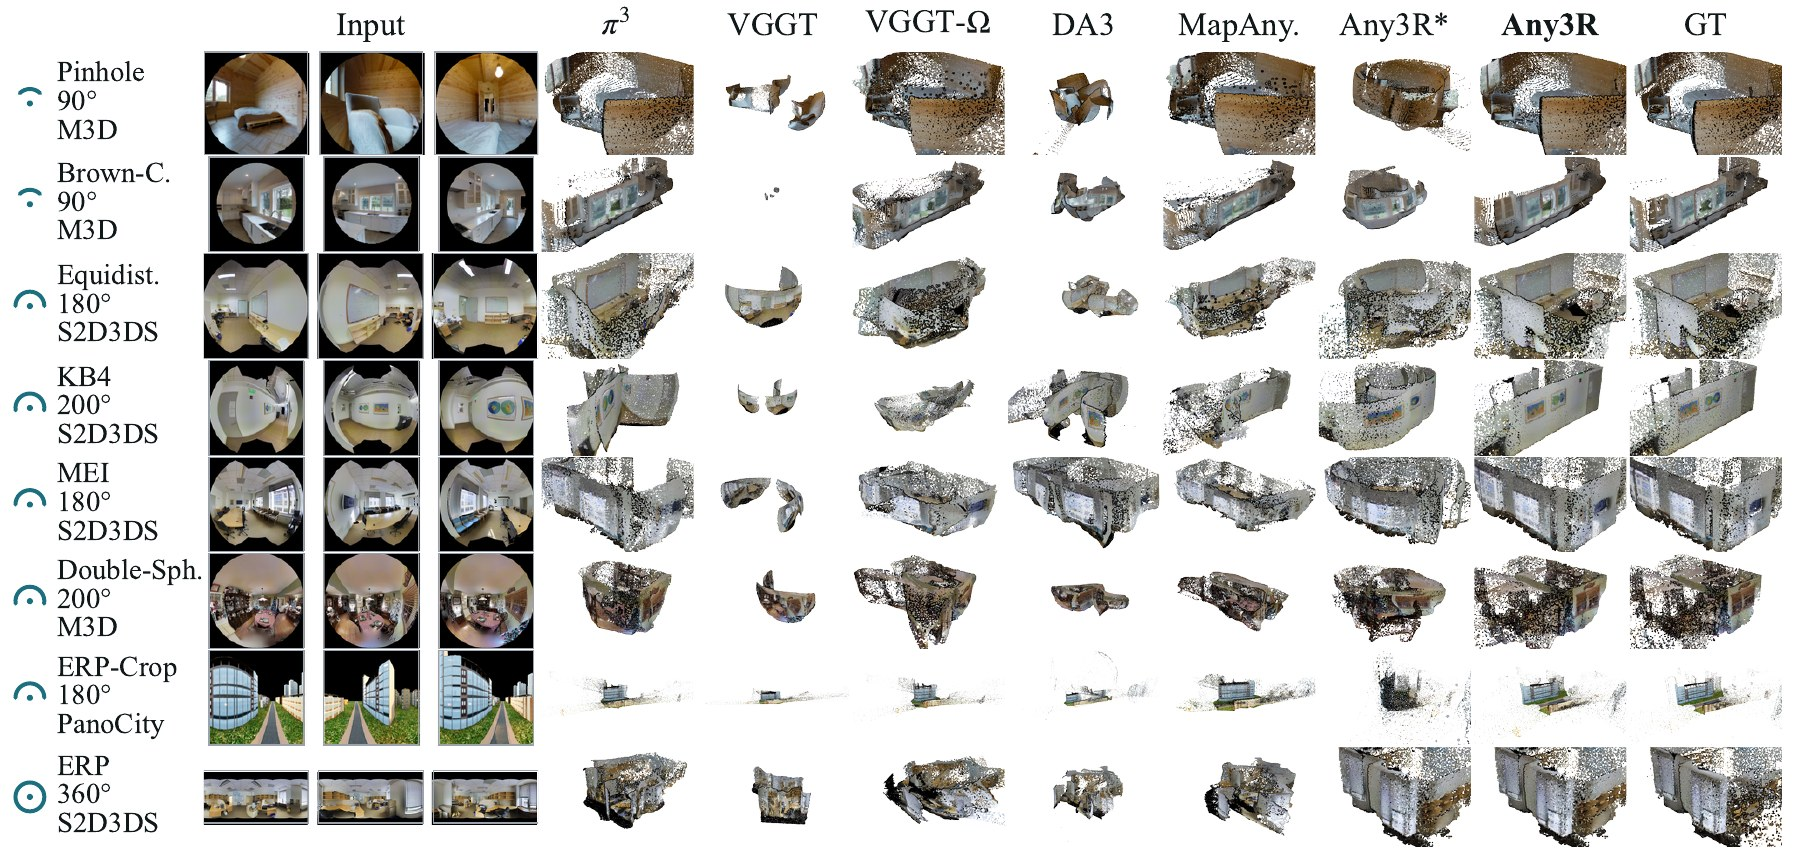
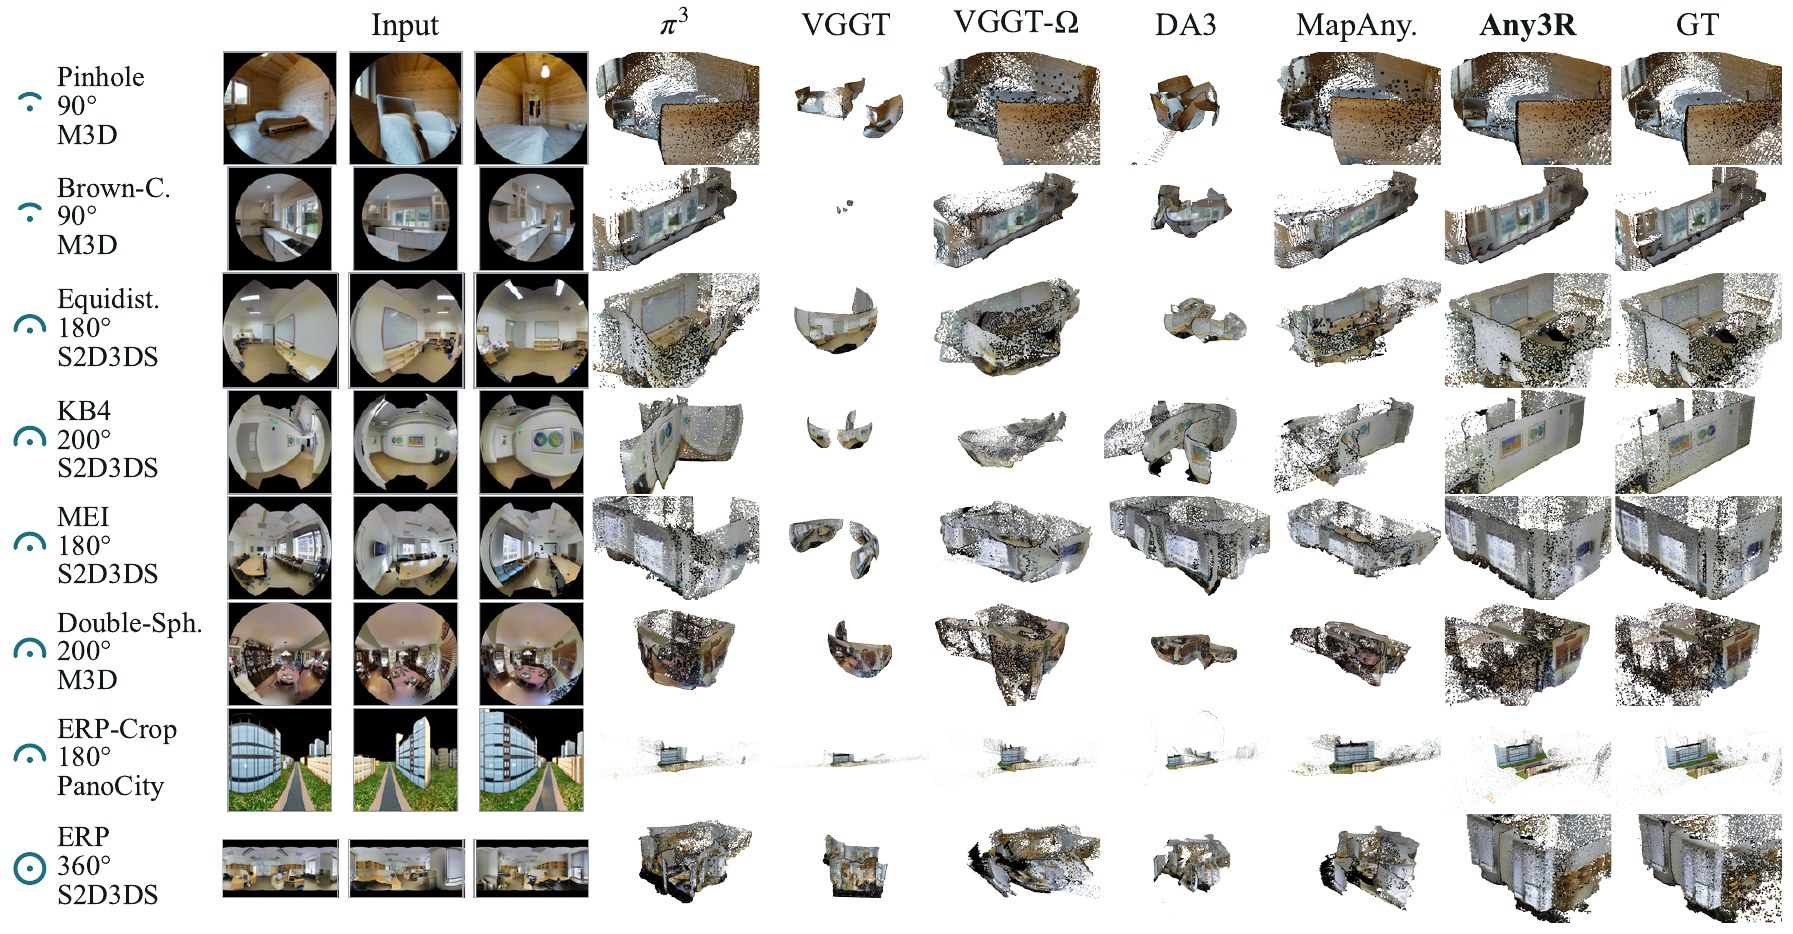
README: follow the arXiv v2 paper; Any3R* (removed from the paper) leaves the tables and the eight-camera figure, and a news entry points to v2

diff --git a/README.md b/README.md
@@ -18,6 +18,7 @@
 
 ## News
 
+- **2026-11-20** · The paper is updated on [arXiv](https://arxiv.org/abs/2610.36150) (v2).
 - **2026-10-31** · Inference code, model weights, interactive demo and evaluation code are released.
 
 ## Contents
@@ -124,11 +125,11 @@ Any3R is fine-tuned from VGGT-Omega for 40 epochs on Matterport3D, Stanford2D3DS
 
 All numbers are from the paper. The benchmark images every scene of three datasets through the same views with each camera model, and every method fuses its points with **its own predicted camera poses**. Acc (m, lower is better) is the mean distance from a reconstructed point to the ground truth; AUC@15° / AUC@30° (%, higher is better) is the area under the pairwise pose-error curve. In each table, the best value of a column is in **bold** and the second best <ins>underlined</ins>. The five held-out camera models are in the paper's appendix and in [eval/README.md](eval/README.md).
 
-### Eight camera models, seven methods
+### Eight camera models, six methods
 
-<p align="center"><img src="assets/compare_cameras.jpg" width="100%" alt="Eight central camera models, seven methods, one scene per row"></p>
+<p align="center"><img src="assets/compare_cameras.jpg" width="100%" alt="Eight central camera models, six methods, one scene per row"></p>
 
-One scene per row, each imaged by three views through one camera model. Every method fuses the same three views with its own predicted poses and is placed in the ground-truth frame by one similarity transform; the highest 30% of each indoor cloud is removed so the room can be seen from above. MapAny. is MapAnything and Any3R\* is Any3R without its ray map. The same data can be explored in 3D on the [project page](https://jingong-chen.github.io/Any3R/#compare).
+One scene per row, each imaged by three views through one camera model. Every method fuses the same three views with its own predicted poses and is placed in the ground-truth frame by one similarity transform; the highest 30% of each indoor cloud is removed so the room can be seen from above. MapAny. is MapAnything. The same data can be explored in 3D on the [project page](https://jingong-chen.github.io/Any3R/#compare).
 
 ### Methods built for other cameras
 
@@ -198,7 +199,7 @@ ScanNet++ (DSLR fisheye) and FIORD (200° lens), neither in Any3R's training dat
 | MapA-ray | <ins>74.7</ins> | <ins>61.6</ins> | 33.3 | 23.1 | 49.4 | 31.9 | 39.4 | 6.3 |
 | **Any3R** | **80.7** | **74.2** | **92.5** | **93.7** | **92.6** | **89.4** | **90.5** | **98.6** |
 
-**Comparison with geometry foundation models.** Any3R\* is Any3R without its ray map (it then assumes an equirectangular grid) and is not ranked.
+**Comparison with geometry foundation models.**
 
 <b>Indoor (Matterport3D + Stanford2D3DS)</b>
 
@@ -210,7 +211,6 @@ ScanNet++ (DSLR fisheye) and FIORD (200° lens), neither in Any3R's training dat
 | DA3 | 0.313 | 0.294 | 0.361 | 0.288 | 0.363 | 0.396 | 0.379 | 0.402 |
 | VGGT | 0.270 | 0.282 | 0.361 | 0.274 | 0.379 | 0.356 | 0.374 | 0.398 |
 | VGGT-Ω | 0.149 | 0.161 | 0.252 | <ins>0.265</ins> | 0.250 | 0.281 | 0.302 | 0.403 |
-| Any3R\* | 0.282 | 0.283 | 0.274 | 0.278 | 0.278 | 0.279 | 0.298 | 0.054 |
 | **Any3R** | **0.076** | **0.091** | **0.058** | **0.052** | **0.059** | **0.056** | **0.060** | **0.054** |
 | *AUC@15° ↑ (%)* | | | | | | | | |
 | π³ | **76.9** | <ins>53.5</ins> | <ins>42.1</ins> | 18.0 | <ins>43.1</ins> | <ins>35.2</ins> | <ins>34.6</ins> | 3.5 |
@@ -218,7 +218,6 @@ ScanNet++ (DSLR fisheye) and FIORD (200° lens), neither in Any3R's training dat
 | DA3 | 7.8 | 2.7 | 0.9 | <ins>22.1</ins> | 1.2 | 0.4 | 0.7 | <ins>7.0</ins> |
 | VGGT | 23.3 | 9.9 | 5.2 | 14.2 | 5.3 | 5.0 | 2.9 | 3.3 |
 | VGGT-Ω | 63.5 | 50.4 | 31.3 | 15.0 | 29.6 | 24.0 | 19.5 | 6.9 |
-| Any3R\* | 24.0 | 43.8 | 48.3 | 41.7 | 48.2 | 55.0 | 58.5 | 94.5 |
 | **Any3R** | <ins>74.8</ins> | **64.8** | **90.6** | **86.0** | **90.5** | **81.2** | **80.5** | **94.5** |
 | *AUC@30° ↑ (%)* | | | | | | | | |
 | π³ | <ins>82.7</ins> | 66.0 | <ins>61.9</ins> | 37.1 | <ins>62.7</ins> | <ins>56.4</ins> | <ins>58.9</ins> | 14.1 |
@@ -226,7 +225,6 @@ ScanNet++ (DSLR fisheye) and FIORD (200° lens), neither in Any3R's training dat
 | DA3 | 17.8 | 10.3 | 5.7 | <ins>46.2</ins> | 7.2 | 5.5 | 5.1 | 16.8 |
 | VGGT | 50.0 | 25.6 | 18.8 | 32.2 | 16.6 | 16.4 | 13.9 | 10.6 |
 | VGGT-Ω | 76.9 | <ins>69.7</ins> | 53.8 | 34.6 | 52.3 | 47.1 | 42.0 | <ins>17.8</ins> |
-| Any3R\* | 47.5 | 66.2 | 71.3 | 65.8 | 72.0 | 75.9 | 77.5 | 96.6 |
 | **Any3R** | **85.0** | **78.3** | **93.9** | **91.6** | **94.6** | **89.6** | **88.5** | **96.6** |
 
 <b>Outdoor (PanoCity)</b>
@@ -239,7 +237,6 @@ ScanNet++ (DSLR fisheye) and FIORD (200° lens), neither in Any3R's training dat
 | DA3 | 4.360 | 5.689 | 6.656 | 2.717 | 6.844 | 6.463 | 6.477 | 3.149 |
 | VGGT | 4.153 | 3.940 | 6.296 | 3.078 | 6.886 | 6.623 | 6.430 | 1.902 |
 | VGGT-Ω | 1.711 | <ins>1.572</ins> | 2.162 | 2.455 | 2.490 | 2.680 | 2.544 | 1.876 |
-| Any3R\* | 2.079 | 2.525 | 2.370 | 3.324 | 2.463 | 2.420 | 2.552 | 0.663 |
 | **Any3R** | **1.160** | **1.243** | **0.866** | **0.811** | **0.854** | **0.863** | **0.901** | **0.663** |
 | *AUC@15° ↑ (%)* | | | | | | | | |
 | π³ | 44.6 | 34.0 | 18.8 | <ins>15.9</ins> | <ins>20.0</ins> | 14.4 | <ins>16.0</ins> | 2.3 |
@@ -247,7 +244,6 @@ ScanNet++ (DSLR fisheye) and FIORD (200° lens), neither in Any3R's training dat
 | DA3 | 4.8 | 3.0 | 6.4 | 7.7 | 4.9 | 3.4 | 4.6 | <ins>5.5</ins> |
 | VGGT | 15.1 | 2.6 | 3.7 | 9.5 | 6.5 | 5.5 | 7.3 | 0.9 |
 | VGGT-Ω | 45.5 | <ins>44.4</ins> | 15.8 | 8.1 | 15.6 | 13.8 | 8.8 | 3.9 |
-| Any3R\* | 20.1 | 36.0 | 45.0 | 29.9 | 47.3 | 48.8 | 50.1 | 97.2 |
 | **Any3R** | **61.5** | **51.0** | **85.0** | **87.4** | **85.2** | **79.5** | **81.0** | **97.2** |
 | *AUC@30° ↑ (%)* | | | | | | | | |
 | π³ | 61.7 | 47.1 | 36.1 | <ins>28.3</ins> | 37.3 | 30.0 | <ins>35.0</ins> | 4.8 |
@@ -255,10 +251,9 @@ ScanNet++ (DSLR fisheye) and FIORD (200° lens), neither in Any3R's training dat
 | DA3 | 13.6 | 11.5 | 14.8 | 22.1 | 10.2 | 9.8 | 10.6 | <ins>11.3</ins> |
 | VGGT | 32.8 | 11.0 | 8.8 | 24.3 | 13.9 | 13.2 | 17.3 | 3.5 |
 | VGGT-Ω | 55.3 | <ins>54.7</ins> | 33.8 | 23.6 | 34.8 | 31.4 | 24.4 | 8.5 |
-| Any3R\* | 38.9 | 58.3 | 67.7 | 53.7 | 69.6 | 72.3 | 72.2 | 98.6 |
 | **Any3R** | **80.7** | **74.2** | **92.5** | **93.7** | **92.6** | **89.4** | **90.5** | **98.6** |
 
-**Zero-shot on real fisheye lenses:** the ScanNet++ DSLR fisheye (validation split) and the 200° lens of the FIORD rig, neither in Any3R's training data. † Wid3R is trained on ScanNet++. Any3R\* is not ranked.
+**Zero-shot on real fisheye lenses:** the ScanNet++ DSLR fisheye (validation split) and the 200° lens of the FIORD rig, neither in Any3R's training data. † Wid3R is trained on ScanNet++.
 
 | Method | ScanNet++ Acc ↓ | AUC@15° ↑ | AUC@30° ↑ | FIORD Acc ↓ | AUC@15° ↑ | AUC@30° ↑ |
 |:---|:---:|:---:|:---:|:---:|:---:|:---:|
@@ -271,7 +266,6 @@ ScanNet++ (DSLR fisheye) and FIORD (200° lens), neither in Any3R's training dat
 | DA3 | 0.118 | 17.2 | 41.5 | 0.380 | 9.1 | 25.8 |
 | VGGT | 0.118 | 18.0 | 41.7 | 0.442 | 15.6 | 35.3 |
 | VGGT-Ω | 0.112 | 16.7 | 42.9 | 0.451 | 19.9 | 38.9 |
-| Any3R\* | 0.273 | 7.5 | 22.9 | 0.480 | 28.3 | 47.5 |
 | **Any3R** | <ins>0.055</ins> | <ins>62.7</ins> | <ins>79.7</ins> | **0.274** | **63.8** | **78.4** |
 
 ## Evaluation
